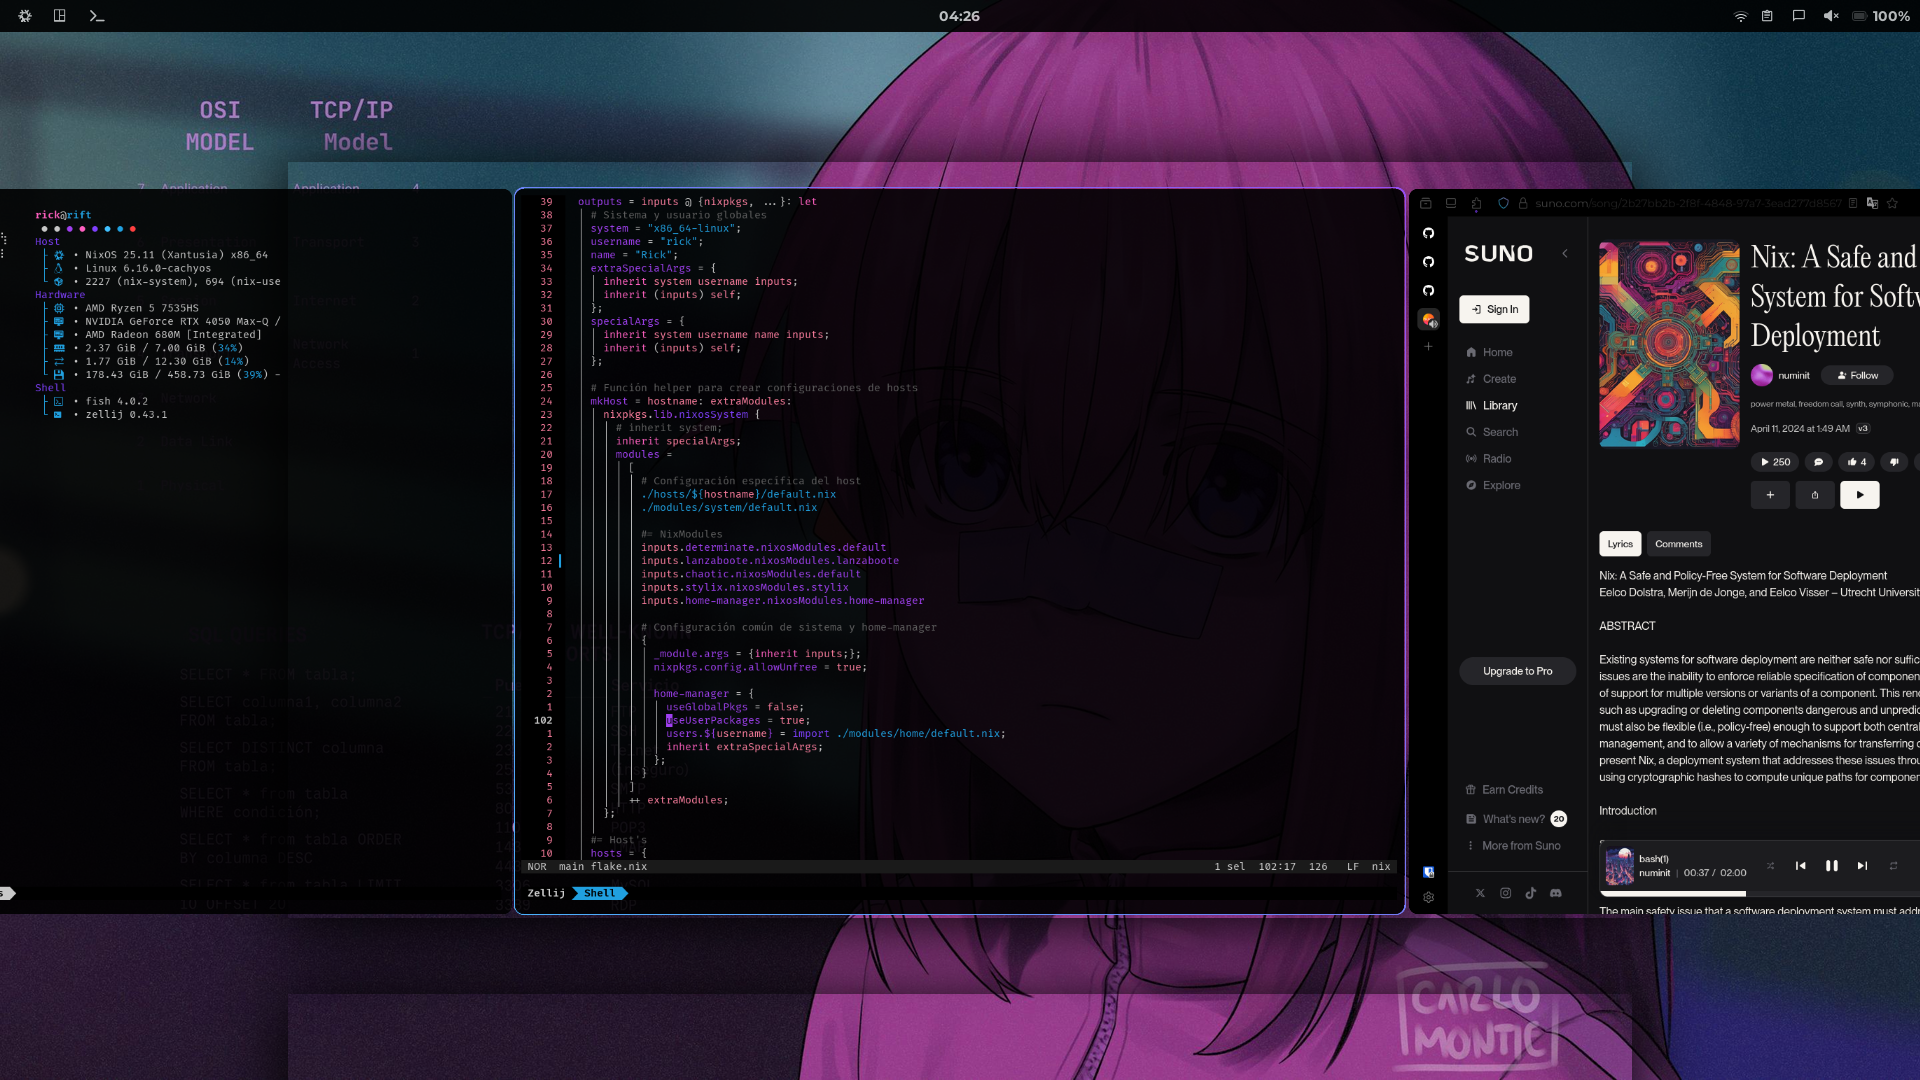
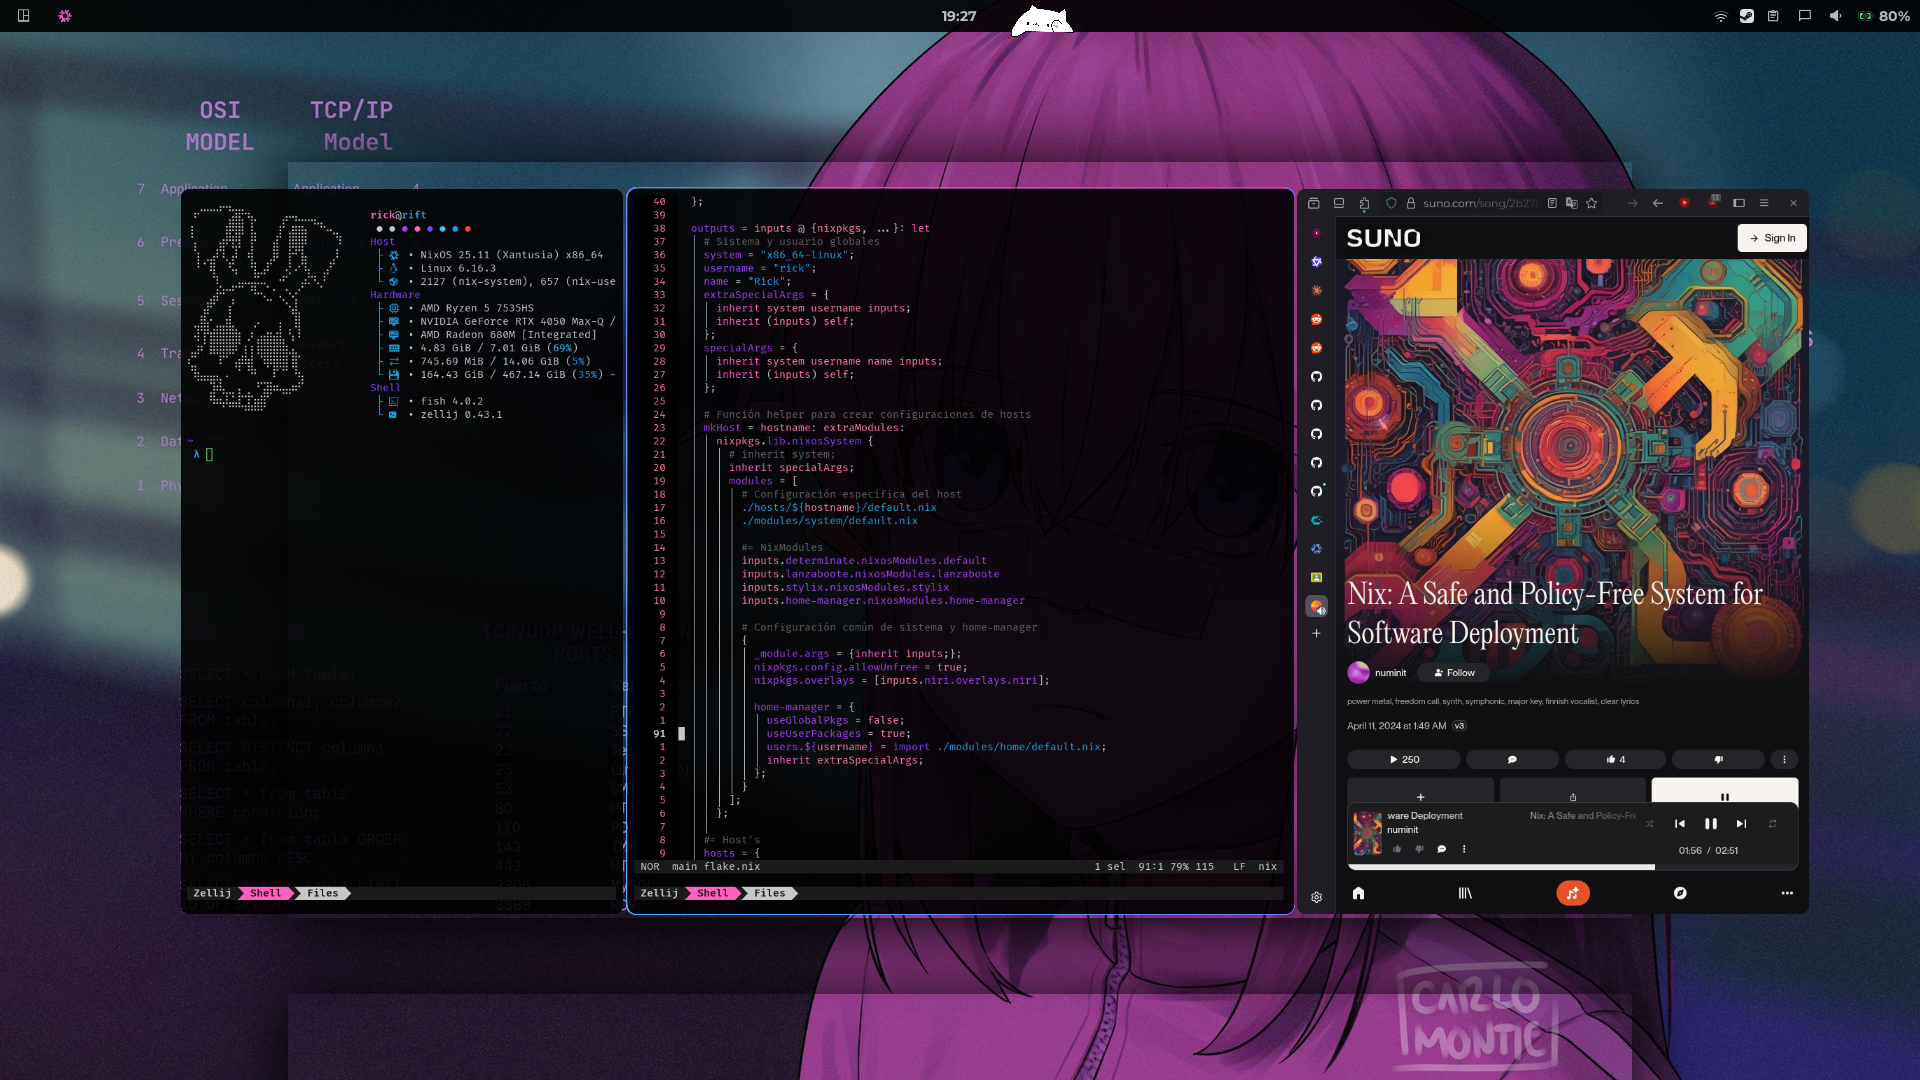
An indispensable and powerful tool has been added (bongocat)

Changed region(s): [[0.0, 0.1528, 1.0, 0.8556], [0.9062, 0.0, 0.9688, 0.0306], [0.5, 0.0, 0.5625, 0.0306]]

diff --git a/README.md b/README.md
@@ -20,7 +20,7 @@
 | --------------------------- | ----------------------------------------------- |
 | **Window Manager**          | [Niri][Niri]                                    |
 | **Terminal Emulator**       | [Wezterm][Wezterm] + [Zellij][Zellij]           |
-| **Bar**                     | [Ironbar][Ironbar]                              |
+| **Bar**                     | [Ironbar][Ironbar] + [BongoCat][BongoCat]       |
 | **Application Launcher**    | [Fuzzel][Fuzzel]                                |
 | **Notification Daemon**     | [SwayNC][SwayNC]                                |
 | **Session Manager**         | [GreetD][GreetD] + [TuiGreet][TuiGreet]         |
@@ -59,12 +59,6 @@ Rebuild System:
 sudo nixos-rebuild boot --flake .#{host}
 ```
 
-The script is "Experimental", so I don't recommend it, but, if you want to use it just give permissions:
-```bash
-sudo chmod +x setup
-./setup
-```
-
 <br>
 
 
@@ -96,6 +90,7 @@ Configurations that have inspired and taught me a lot (Sorry for stealing from y
 [Niri]: https://github.com/YaLTeR/niri
 [Wezterm]: https://wezterm.org/
 [Ironbar]: https://github.com/JakeStanger/ironbar
+[BongoCat]: https://github.com/saatvik333/wayland-bongocat
 [Zellij]: https://zellij.dev/
 [Fuzzel]: https://codeberg.org/dnkl/fuzzel
 [SwayNC]: https://github.com/ErikReider/SwayNotificationCenter
